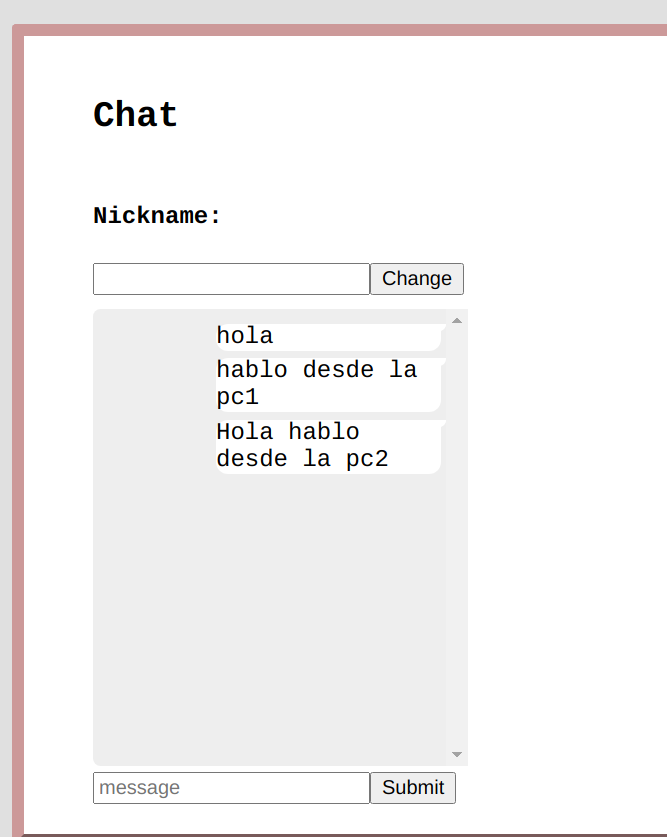
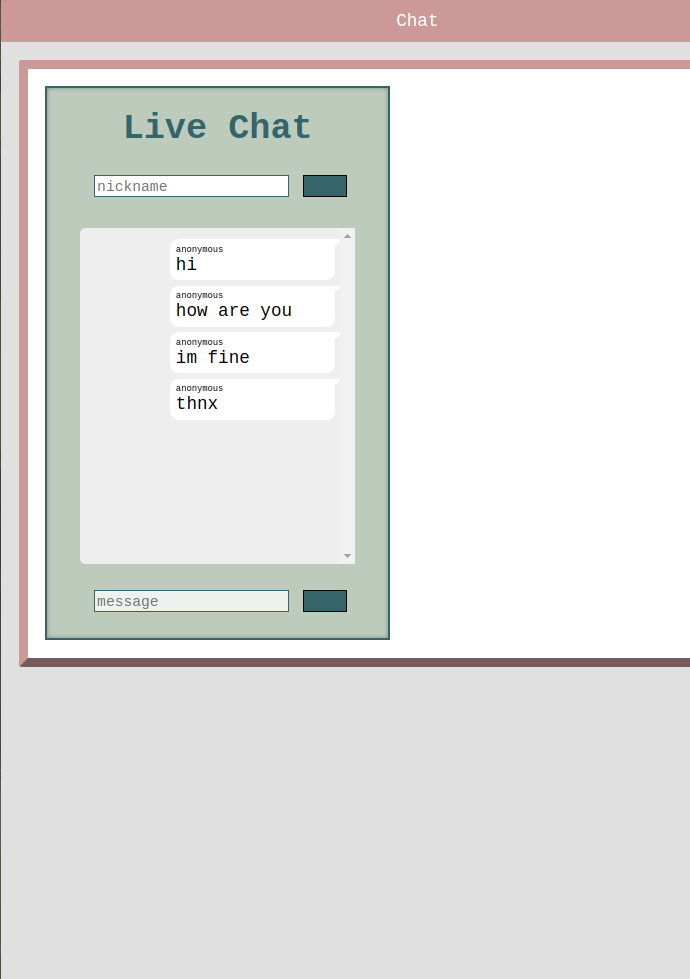
add nickname support, change readme

diff --git a/src/components/chat/Message.js b/src/components/chat/Message.js
@@ -26,6 +26,9 @@ const MessageTail = styled.div`
     z-index: 2;
     border-bottom-right-radius: 20px;
 `
+const MessageHeader = styled.div`
+    font-size: 8px;
+`
 
 function Message(props){
     let color = 'white';
@@ -35,6 +38,7 @@ function Message(props){
     return (
         <MessageContainer>
             <ChatMessage className="ChatMessage" color={color}>
+                <MessageHeader>{props.sender}</MessageHeader>
                 {props.children}
             </ChatMessage>
             <MessageTail className="ChatMessageTail" color={color}/>

diff --git a/src/components/chat/Chat.js b/src/components/chat/Chat.js
@@ -7,12 +7,15 @@ import ChatContent from './ChatContent';
 import socket from './Socket';
 
 const ChatContainer = styled.div`
-  display: flex;
-  flex-direction: column;
-  justify-content: space-evenly;
   height: 500px;
   width: 250px;
   padding: 0px 30px;
+  display: flex;
+  flex-direction: column;
+  justify-content: space-evenly;
+  background: #bccbbc;
+  border: 2px solid #35646a;
+  box-shadow: inset 0px 0px 4px #00000051;
 `
 
 const Chat = () => {

diff --git a/src/components/chat/ChatContent.js b/src/components/chat/ChatContent.js
@@ -14,7 +14,7 @@ const Box = styled.div`
 const ChatContent = ({messages}) => {
     return (
     <Box>
-        {messages.map((m,index)=><Message key={index}>{m}</Message>)}
+        {messages.map((m,index)=><Message key={index} sender={m.sender}>{m.text}</Message>)}
     </Box>
     )
 }

diff --git a/src/components/StyledComponents.js b/src/components/StyledComponents.js
@@ -26,7 +26,7 @@ const StyledTextbox = styled.input.attrs({type: "text"})`
     outline: none;
     background: white;
     &:focus{
-        background: #e5f4ea;
+        background: #eef2ee;
     }
     padding-top: 3px;
     caret-color: #35646a;
